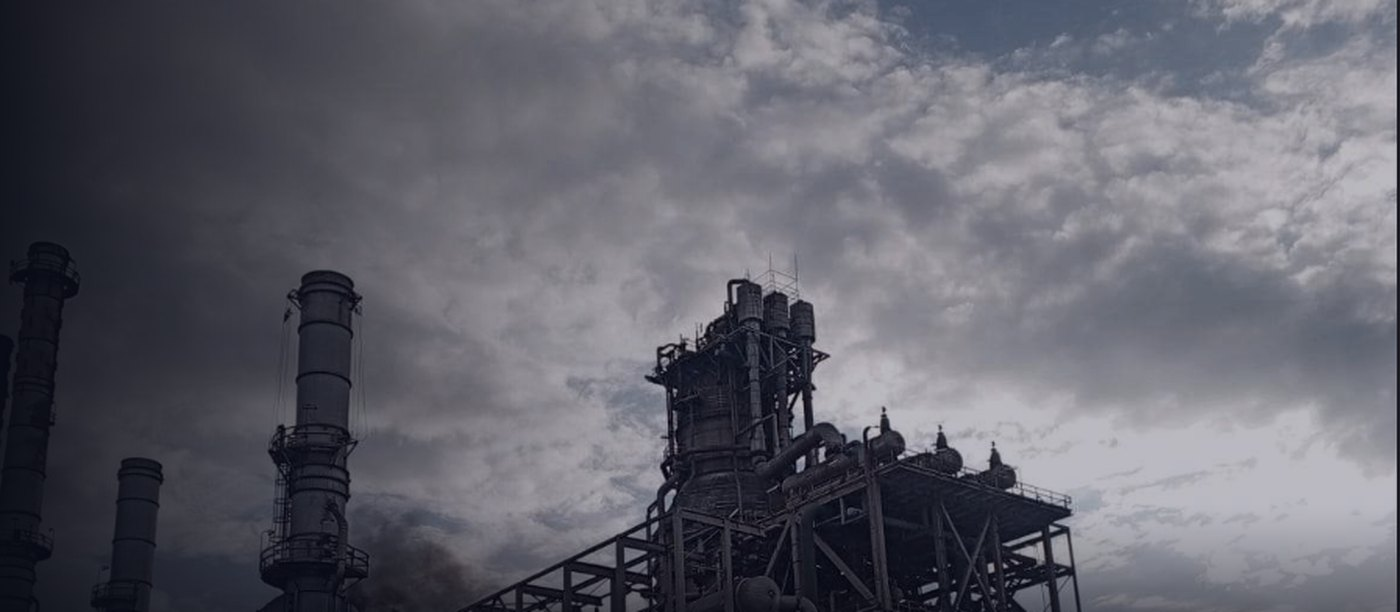
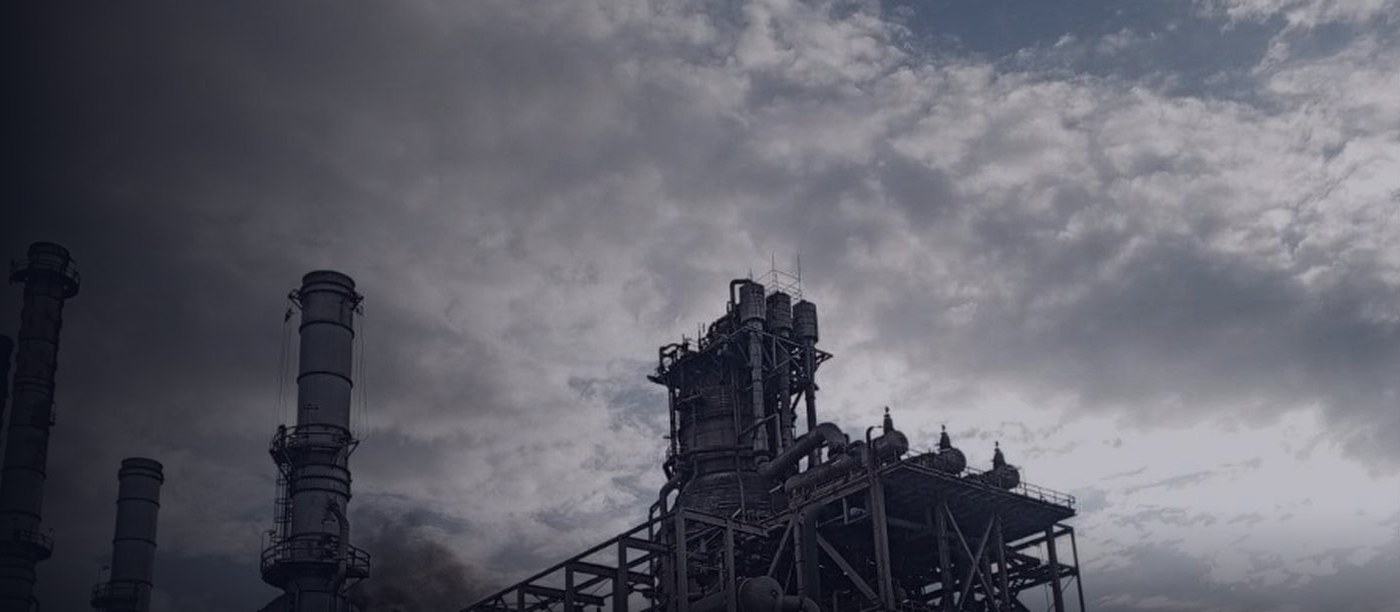
Crop the black edge off card one, drop the subscriptions standfirst
The photograph carried a four pixel black column on its right edge. It is
cropped out and the frame rescaled, so the 16:7 crop is unchanged.

Changed region(s): [[0.3993, 0.4346, 0.7986, 1.0], [0.9829, 0.0, 1.0, 1.0], [0.3686, 0.9624, 0.3993, 0.9935]]

diff --git a/services.html b/services.html
@@ -5,6 +5,6 @@
 <link rel="icon" href="favicon.png"><link rel="stylesheet" href="assets/site.css"><link rel="stylesheet" href="assets/presence.css"><link rel="stylesheet" href="assets/depth.css"><link rel="stylesheet" href="assets/refinements.css"><link rel="stylesheet" href="assets/bureau.css"><script defer src="assets/site.js"></script></head>
 <body class="page-services"><a class="skip-link" href="#main">Skip to content</a><div class="topline"><div class="container"><span>✳ &nbsp; A closer view of Venezuela. Our lead research programme is taking shape.</span><a href="venezuela.html">Explore the programme </a></div></div>
 <header class="site-header"><div class="container nav-shell"><a class="brand" href="index.html" aria-label="EchoFrame home"><svg class="echoframe-mark" viewBox="0 0 48 48" fill="none" aria-hidden="true"><g stroke-width="3.8" stroke-linecap="round"><path d="M7 7L29 41M13 7L35 41M19 7L41 41" stroke="#ed704b"/><path d="M41 7L19 41M35 7L13 41M29 7L7 41" stroke="currentColor"/></g></svg><span>echo<span class="brand-light">frame</span><i>®</i></span></a><button class="menu-toggle" aria-expanded="false" aria-controls="main-nav">Menu <span aria-hidden="true">☰</span></button><nav id="main-nav" aria-label="Main navigation"><details class="nav-group"><summary>Products</summary><div class="nav-panel"><div class="nav-panel-label">Products</div><a href="services.html"><strong>What we deliver</strong><small>Three subscriptions and three kinds of project.</small></a><a href="engagement.html"><strong>Working with EchoFrame</strong><small>Formats, scope, and delivery.</small></a></div></details><details class="nav-group"><summary>Sectors Served</summary><div class="nav-panel"><div class="nav-panel-label">Sectors Served</div><a href="oil-and-gas.html"><strong>Oil and gas</strong><small>Policy, permits and the assets they decide.</small></a><a href="commodities.html"><strong>Commodities</strong><small>Food and farming, from the growing zone to the port.</small></a></div></details><a class="nav-direct" href="worked-examples.html">Cases</a><a class="nav-direct" href="frame-bureau.html">The Frame Bureau</a><details class="nav-group"><summary>About</summary><div class="nav-panel"><div class="nav-panel-label">About</div><a href="about.html"><strong>About EchoFrame</strong><small>The purpose and approach behind the research.</small></a><a href="how-it-works.html"><strong>How it works</strong><small>The six steps, and how a development is confirmed.</small></a><a href="trust.html"><strong>Trust &amp; privacy</strong><small>Evidence, information handling, and boundaries.</small></a></div></details></nav></div></header>
-<main id="main"><section class="page-intro container"><div class="eyebrow">Products</div><h1>What you get,<br>and what is included</h1><p>Continuous data from places that are hard to reach, volatile and largely offline, delivered as an alert, a brief, a detailed report, or answers to your questions. Three subscriptions run against the assets and questions you name. Projects are single pieces of work with a scope and an end.</p></section><section class="section container" id="subscriptions"><div class="section-heading"><div><div class="eyebrow">Subscriptions</div><h2>Coverage that keeps running</h2></div><p>A subscription is coverage, not a login. Access to the record comes with any of them and is not sold on its own. You are told the day something is confirmed rather than at the end of a reporting cycle.</p></div><div class="capability-grid product-grid"><article><span class="eyebrow">01 / Subscription</span><h3><a href="asset-watch.html">Asset Watch</a></h3><p>Continuous monitoring of the assets you name, with an alert the day a development is confirmed.</p><span class="eyebrow">What is included</span><ul><li>An alert on the day a development is confirmed, with the sources and what it affects.</li><li>A weekly brief for each asset after an analyst has read it.</li><li>Every claim in the brief carries a reference back to the record, so anything can be traced.</li></ul><p class="service-where"><span class="eyebrow">Where</span> Eastern and western Venezuela today. Colombia, Mexico, Rwanda and Pakistan as collection is built.</p></article><article><span class="eyebrow">02 / Subscription</span><h3><a href="question-book.html">Question Book</a></h3><p>Written questions with a date and a rule for settling them, each scored when the date arrives.</p><span class="eyebrow">What is included</span><ul><li>The question set, agreed with you and then frozen so it cannot drift.</li><li>A probability on each with the developments that moved it, inspectable down to the sources.</li><li>An answer and a score on the date, kept as a record over time.</li></ul></article><article><span class="eyebrow">03 / Subscription</span><h3><a href="ground-truth.html">Ground Truth</a></h3><p>Reporting filed from the place itself, joined to your asset coverage rather than published as articles.</p><span class="eyebrow">What is included</span><ul><li>A record within hours of filing, with what happened, where, who was involved and how the reporter knows it.</li><li>It reaches you before the national press has the story, and often when the national press never runs it at all.</li></ul><p class="service-where"><span class="eyebrow">Where</span> Only where the correspondent network exists. We will tell you plainly whether that covers where you are exposed.</p></article></div></section>
+<main id="main"><section class="page-intro container"><div class="eyebrow">Products</div><h1>What you get,<br>and what is included</h1><p>Continuous data from places that are hard to reach, volatile and largely offline, delivered as an alert, a brief, a detailed report, or answers to your questions. Three subscriptions run against the assets and questions you name. Projects are single pieces of work with a scope and an end.</p></section><section class="section container" id="subscriptions"><div class="section-heading"><div><div class="eyebrow">Subscriptions</div><h2>Coverage that keeps running</h2></div></div><div class="capability-grid product-grid"><article><span class="eyebrow">01 / Subscription</span><h3><a href="asset-watch.html">Asset Watch</a></h3><p>Continuous monitoring of the assets you name, with an alert the day a development is confirmed.</p><span class="eyebrow">What is included</span><ul><li>An alert on the day a development is confirmed, with the sources and what it affects.</li><li>A weekly brief for each asset after an analyst has read it.</li><li>Every claim in the brief carries a reference back to the record, so anything can be traced.</li></ul><p class="service-where"><span class="eyebrow">Where</span> Eastern and western Venezuela today. Colombia, Mexico, Rwanda and Pakistan as collection is built.</p></article><article><span class="eyebrow">02 / Subscription</span><h3><a href="question-book.html">Question Book</a></h3><p>Written questions with a date and a rule for settling them, each scored when the date arrives.</p><span class="eyebrow">What is included</span><ul><li>The question set, agreed with you and then frozen so it cannot drift.</li><li>A probability on each with the developments that moved it, inspectable down to the sources.</li><li>An answer and a score on the date, kept as a record over time.</li></ul></article><article><span class="eyebrow">03 / Subscription</span><h3><a href="ground-truth.html">Ground Truth</a></h3><p>Reporting filed from the place itself, joined to your asset coverage rather than published as articles.</p><span class="eyebrow">What is included</span><ul><li>A record within hours of filing, with what happened, where, who was involved and how the reporter knows it.</li><li>It reaches you before the national press has the story, and often when the national press never runs it at all.</li></ul><p class="service-where"><span class="eyebrow">Where</span> Only where the correspondent network exists. We will tell you plainly whether that covers where you are exposed.</p></article></div></section>
 <section class="section container" id="projects"><div class="section-heading"><div><div class="eyebrow">Bespoke projects</div><h2>Bespoke work is<br>what we are best at</h2></div><p>Most of what we do is built for one question that one client has to answer, in a place where the answer is not sitting anywhere waiting to be found. Each project has a defined scope, an agreed deliverable and a date. A scoping conversation comes first and carries no charge, because the first useful thing we can tell you is whether the record can carry your question at all.</p></div><ul class="project-list"><li><h3>Viability assessment</h3><p>A legal and contractual read of one asset against six criteria, each citing the document it rests on. Refreshed for twelve months whenever a development touches that asset.</p></li><li><h3>Question design</h3><p>Turning a decision you have to make into a set of questions that can actually be settled, with the evidence rules written down. Most questions people bring us cannot be answered as asked. This is the work of fixing that.</p></li><li><h3>Zone brief</h3><p>A single deep read of one state or one cluster of assets, built from the record and ending with the questions worth running and what would settle them.</p></li><li><h3>Scoping conversation</h3><p>Defining the subject, the decision and the horizon before any mandate. No charge.</p></li></ul><p class="service-more"><a href="projects.html">What each project covers</a></p><div class="service-pricing"><span class="eyebrow">What it costs</span><p>Pricing depends on the number of assets, the number of questions and whether ground reporting is included. We will tell you what your coverage would cost in the first conversation, and what it would not cover.</p></div></section><section class="section container page-enquiry"><a class="button button-coral" href="briefing.html">Tell us what you need covered</a></section></main>
 <footer class="site-footer"><div class="container"><div class="footer-top"><div><a class="brand" href="index.html" aria-label="EchoFrame home"><svg class="echoframe-mark" viewBox="0 0 48 48" fill="none" aria-hidden="true"><g stroke-width="3.8" stroke-linecap="round"><path d="M7 7L29 41M13 7L35 41M19 7L41 41" stroke="#ed704b"/><path d="M41 7L19 41M35 7L13 41M29 7L7 41" stroke="currentColor"/></g></svg><span>echo<span class="brand-light">frame</span><i>®</i></span></a><p>Research on political decisions and their consequences.</p><span class="eyebrow">Venezuela and European energy policy</span></div><div><h2>Explore</h2><a href="capabilities.html">Research capabilities</a><a href="government-affairs.html">Government affairs</a><a href="distressed-debt.html">Distressed debt</a><a href="venezuela.html">Venezuela programme</a><a href="coverage.html">Regional coverage</a><a href="how-it-works.html">How it works</a></div><div><h2>Connect</h2><a href="engagement.html">Working with EchoFrame</a><span>contact@echoframe.co</span><a href="https://ie.linkedin.com/company/echoframing" target="_blank" rel="noopener noreferrer">LinkedIn </a></div><div><h2>Company</h2><a href="about.html">About EchoFrame</a><a href="trust.html">Trust &amp; privacy</a><a href="sample-briefs.html">Sample briefs &amp; templates</a><a href="sources.html">Primary-source directory</a></div></div><div class="footer-bottom"><span>© 2026 EchoFrame Intelligence AB</span><span><a href="privacy.html">Privacy</a><span class="meta-dot">/</span>EchoFrame research</span><a href="#main">Back to top </a></div></div></footer></body></html>

diff --git a/scripts/services.py b/scripts/services.py
@@ -137,7 +137,7 @@ def overview(intro):
         'Continuous data from places that are hard to reach, volatile and largely offline, delivered as an '
         'alert, a brief, a detailed report, or answers to your questions. Three subscriptions run against the '
         'assets and questions you name. Projects are single pieces of work with a scope and an end.'
-    ) + f'''<section class="section container" id="subscriptions"><div class="section-heading"><div><div class="eyebrow">Subscriptions</div><h2>Coverage that keeps running</h2></div><p>A subscription is coverage, not a login. Access to the record comes with any of them and is not sold on its own. You are told the day something is confirmed rather than at the end of a reporting cycle.</p></div><div class="capability-grid product-grid">{cards}</div></section>
+    ) + f'''<section class="section container" id="subscriptions"><div class="section-heading"><div><div class="eyebrow">Subscriptions</div><h2>Coverage that keeps running</h2></div></div><div class="capability-grid product-grid">{cards}</div></section>
 <section class="section container" id="projects"><div class="section-heading"><div><div class="eyebrow">Bespoke projects</div><h2>Bespoke work is<br>what we are best at</h2></div><p>Most of what we do is built for one question that one client has to answer, in a place where the answer is not sitting anywhere waiting to be found. Each project has a defined scope, an agreed deliverable and a date. A scoping conversation comes first and carries no charge, because the first useful thing we can tell you is whether the record can carry your question at all.</p></div><ul class="project-list">{projects}</ul><p class="service-more"><a href="projects.html">What each project covers</a></p><div class="service-pricing"><span class="eyebrow">What it costs</span><p>{PRICING}</p></div></section>'''
 
 
